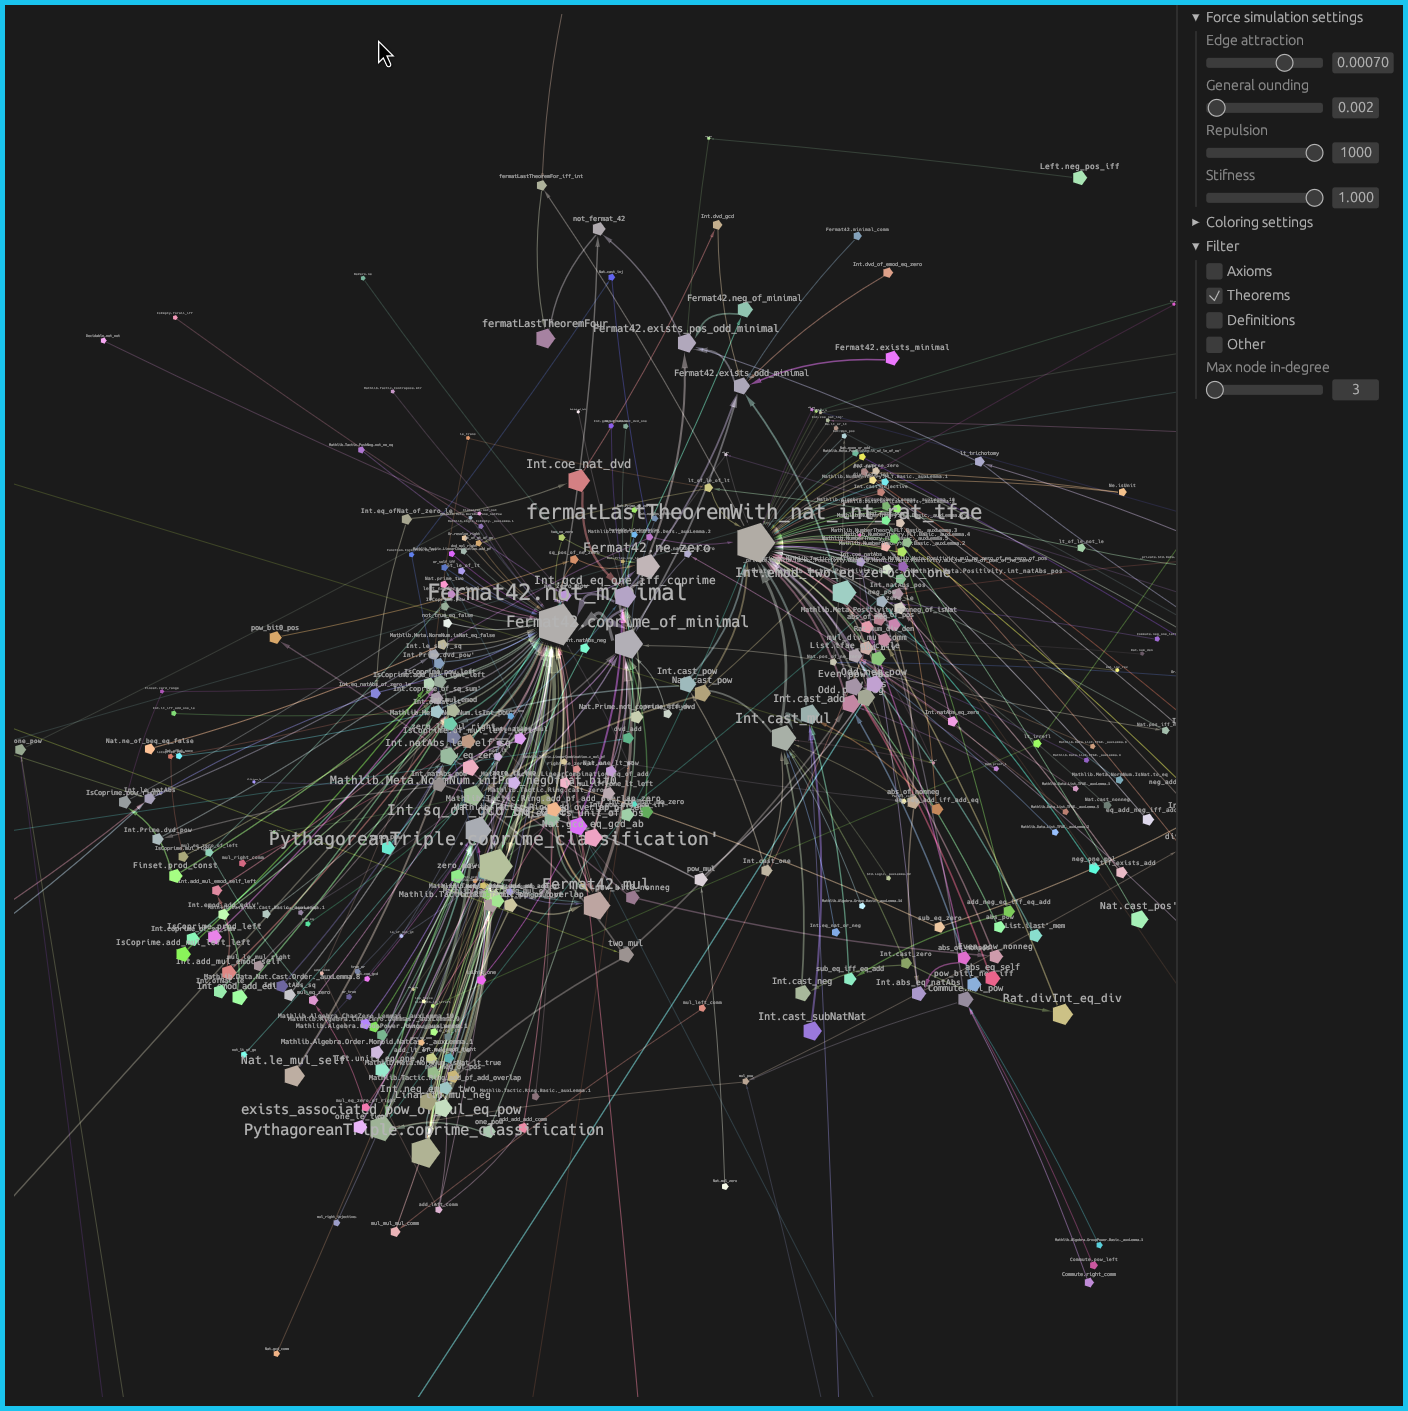
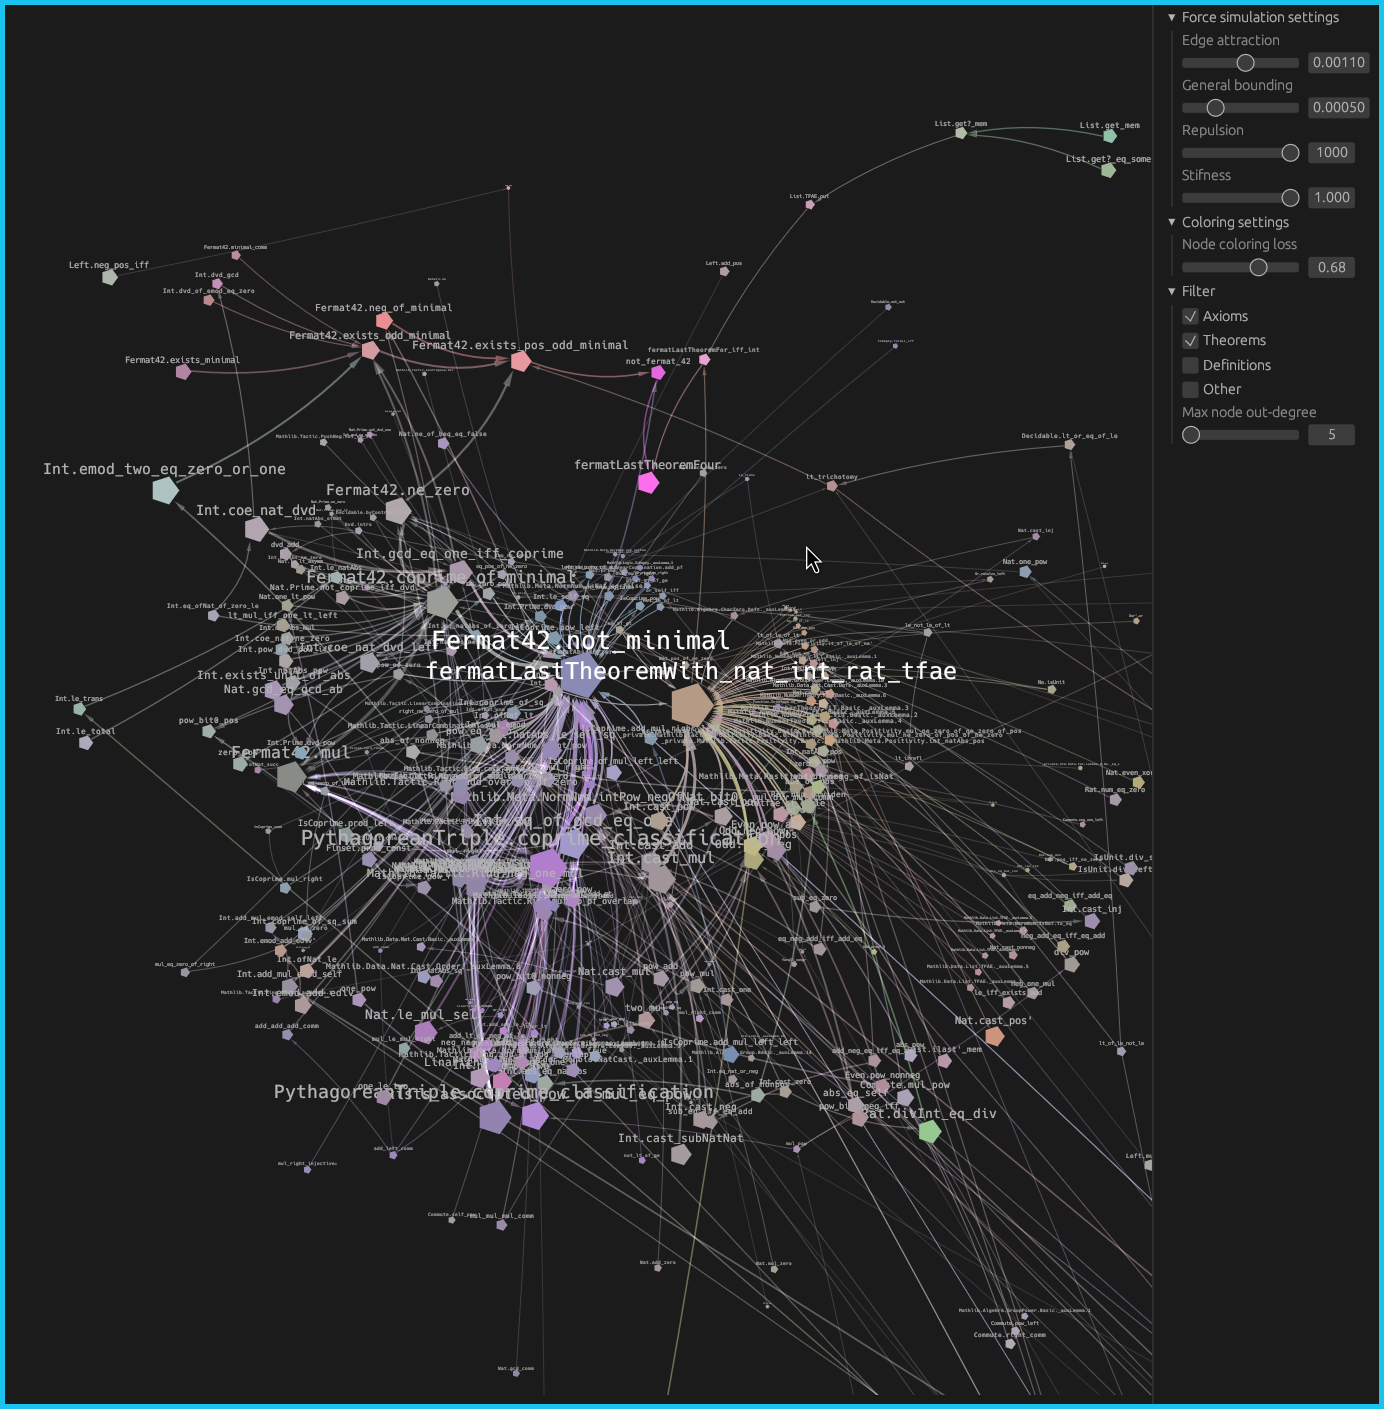
Polished forcegraph settings & changed pic

diff --git a/src/lib.rs b/src/lib.rs
@@ -80,7 +80,7 @@ struct ForceSettings {
 impl Default for ForceSettings {
     fn default() -> Self {
         Self {
-            b_force: 0.002,
+            b_force: 0.0005,
             r_force: 400.,
             e_force: 0.001,
             stiffness: 0.5
@@ -166,7 +166,7 @@ impl MApp {
 
         for &ni in &topo_sort {
             let color = self.fg.g.node_weight(ni).unwrap().payload().color;
-            let size = self.fg.g[ni].payload().size.powf(2.);
+            let size = self.fg.g[ni].payload().size;
             // add cur color to comp color
             let comp_color = self.fg.g[ni].payload_mut().comp_color;
             self.fg.g[ni].payload_mut().comp_color.0 =  [comp_color.0[0] + color[0]*size, comp_color.0[1]+color[1]*size, comp_color.0[2]+color[2]*size];
@@ -204,8 +204,7 @@ impl MApp {
                 let dir = dir.normalized();
 
 
-                let bacc = (self.force_settings.b_force * dis * dis);
-                let bacc = bacc.min(1.);
+                let bacc = (self.force_settings.b_force * dis);
 
                 let racc = -(self.force_settings.r_force / (dis.sqrt()));
 
@@ -213,7 +212,7 @@ impl MApp {
 
                 let mr = self.fg.g[oni].payload().mass() / self.fg.g[ni].payload().mass();
 
-                let tot_acc = mr * (bacc+racc + if neighbors[&ni].contains(&oni) { eacc } else {0.});
+                let tot_acc = (mr * (bacc+racc + if neighbors[&ni].contains(&oni) { eacc } else {0.}));
 
                 let cvel = self.fg.node_mut(ni).unwrap().payload().vel;
                 self.fg.node_mut(ni).unwrap().payload_mut().vel = cvel - (cvel*self.force_settings.stiffness*dt) + tot_acc * dt * dir;
@@ -240,9 +239,9 @@ impl MApp {
         egui::SidePanel::new(egui::panel::Side::Right, "Settings").show(ctx, |ui| {
             ui.collapsing("Force simulation settings", |ui| {
                 ui.label("Edge attraction");
-                ui.add(Slider::new(&mut self.force_settings.e_force, (0.000001)..=(0.001)));
+                ui.add(Slider::new(&mut self.force_settings.e_force, (0.0)..=(0.002)));
                 ui.label("General bounding");
-                ui.add(Slider::new(&mut self.force_settings.b_force, (0.000001)..=(0.1)));
+                ui.add(Slider::new(&mut self.force_settings.b_force, (0.0)..=(0.002)));
                 ui.label("Repulsion");
                 ui.add(Slider::new(&mut self.force_settings.r_force, (10.)..=(1000.)));
                 ui.label("Stifness");
